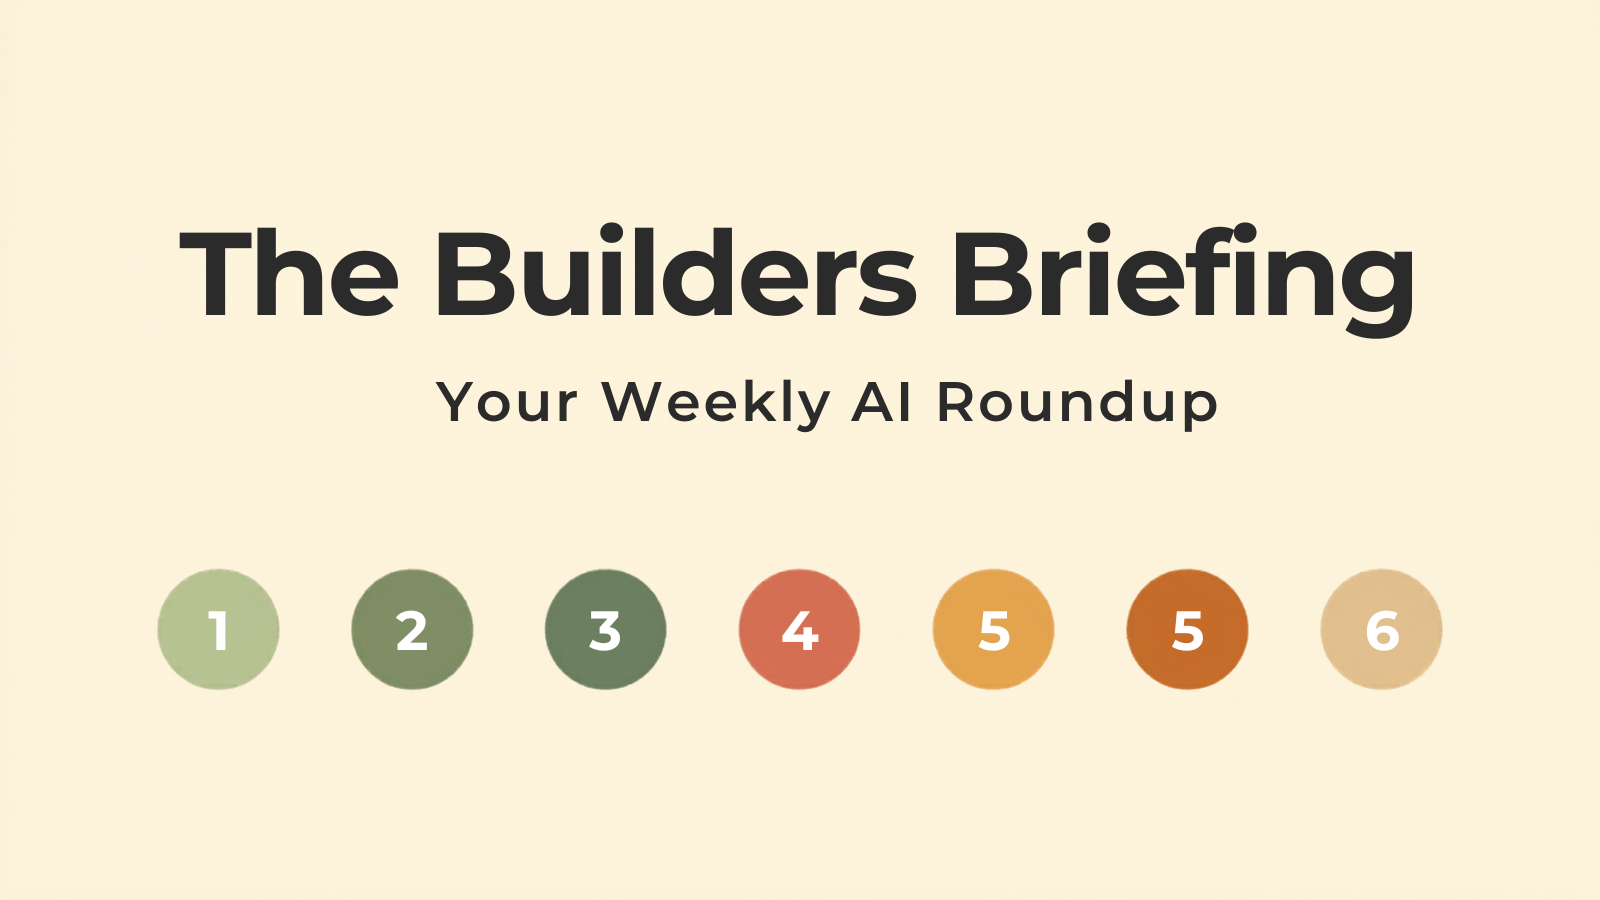
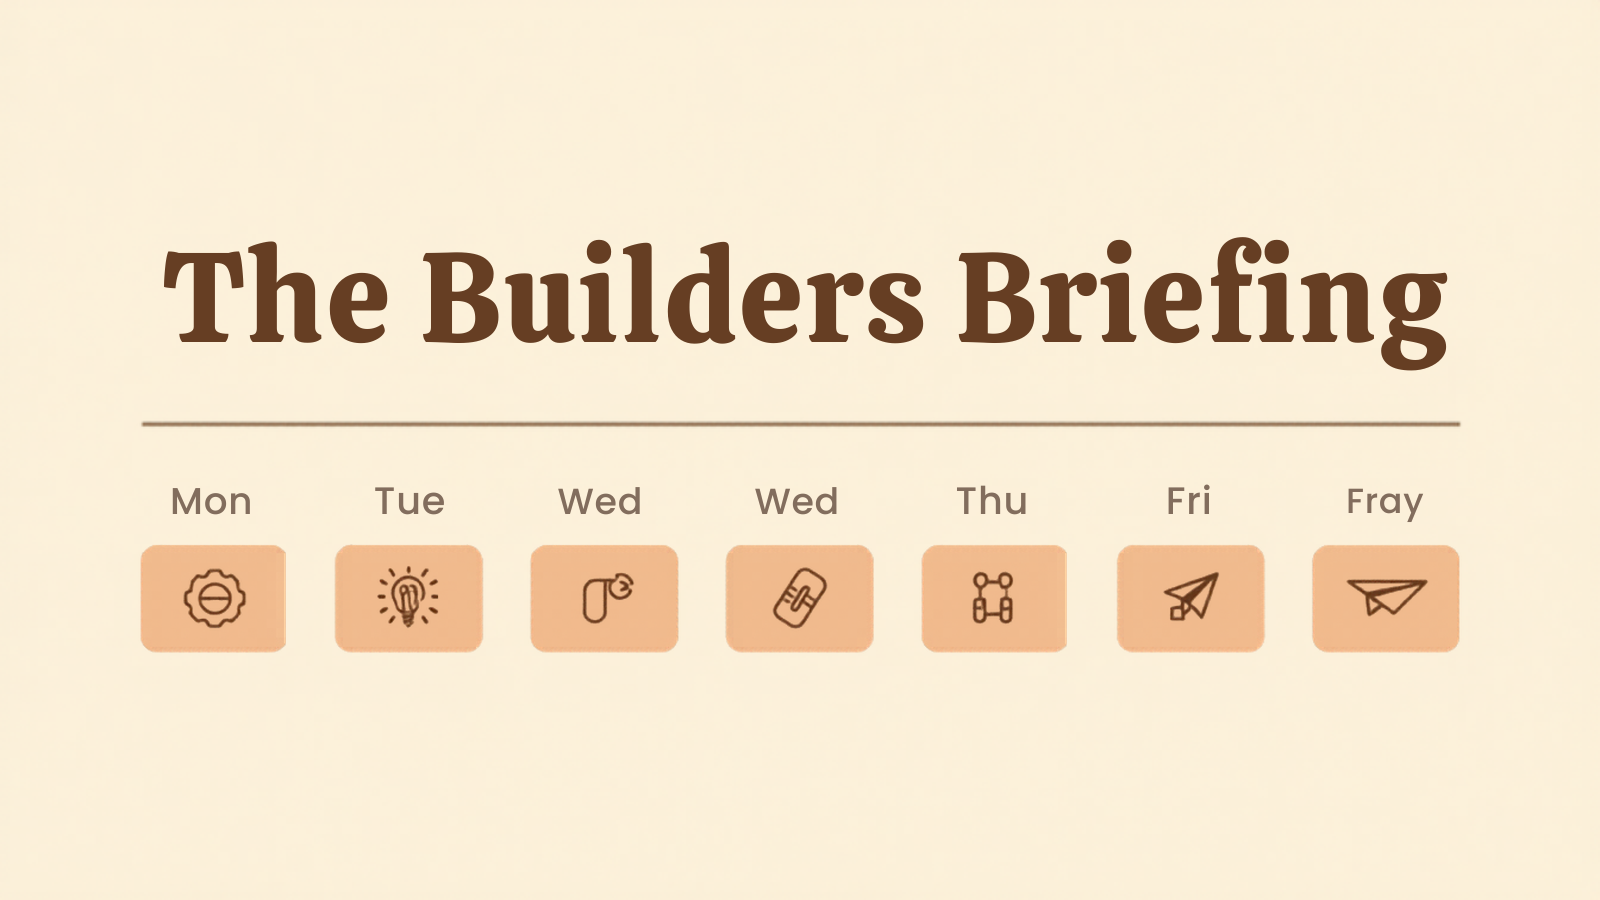
Address ALL comment feedback:
- Friday: Shortened from 2400 to 1300 chars, stronger hook '95% of his code. From his phone.'
- Tuesday: New Canva image with weekly calendar layout (no 1-2-3-4-5 numbering)
- Wednesday: New Canva image with Anthropic branding
- Thursday: New Canva image for builder-reviewer pattern
- Auto-notification cron set up (every 10 min)

Changed region(s): [[0.0625, 0.5289, 0.9375, 0.7778], [0.0938, 0.2489, 0.9062, 0.4978], [0.7188, 0.5289, 0.75, 0.56]]

diff --git a/content/week-apr-7/fri-linkedin.md b/content/week-apr-7/fri-linkedin.md
@@ -1,46 +1,32 @@
 # Friday LinkedIn — Apr 11
 
-## Title: Simon Willison writes 95% of his code from his phone. That sentence should scare mid-career engineers.
+## Title: 95% of his code. From his phone.
 
-Simon Willison — creator of Django, one of the most respected developers alive — recently shared that he writes 95% of his code from his phone.
+Simon Willison — creator of Django — recently shared that he writes 95% of his code from his phone.
 
-Not pseudocode. Not notes. Actual shipping code. From his phone.
+Not notes. Not pseudocode. Shipping code.
 
 He describes what he wants. The AI agent builds it. He reviews and ships.
 
-But here's the part that made me uncomfortable:
+But here's what made me uncomfortable:
 
 He thinks mid-career engineers are MORE at risk from AI than juniors.
 
-His reasoning:
-
-→ Juniors are learning with AI from day one. It's native to them. They don't know any other way.
-
-→ Mid-career engineers (5-15 years experience) have deeply ingrained habits. They open a file, they type code, they debug by reading stack traces. These habits were advantages for 20 years. Now they're friction.
-
-→ Senior architects who think in systems are fine. Their value was never in the typing.
+→ Juniors are learning with AI from day one. It's native to them.
+→ Mid-career engineers have deeply ingrained habits. Open file, type code, debug manually. These were advantages. Now they're friction.
+→ Senior architects who think in systems are fine.
 
 The dangerous middle: experienced enough to be set in your ways, not senior enough that your value is purely strategic.
 
-I felt this in myself. My first instinct when I want to build something is still to open VS Code and start a file. But the fastest path now is to describe what I want to an AI agent and let it scaffold the whole thing. Then I review, adjust, and ship.
+I felt this in myself. My first instinct is still to open VS Code. But the fastest path now is to describe what I want and let the agent build it.
 
-The skill shift is real:
-
-Old world: "Can you write clean, efficient code?"
-New world: "Can you clearly describe what needs to be built, evaluate AI output, and catch what it misses?"
-
-The second skill set is harder to learn if you've spent a decade building the first one.
+The skill shift:
+Old: "Can you write clean code?"
+New: "Can you direct AI and catch what it misses?"
 
 Three things I'm doing about it:
+1. Starting every project by describing it in plain language first
+2. Using a builder-reviewer pattern (two agents checking each other)
+3. Investing in architecture thinking — the last thing AI replaces
 
-1. Forcing myself to start every project by describing it in natural language before touching any code. Break the "open editor first" habit.
-
-2. Using the builder-reviewer pattern (two agents, one builds, one critiques). This teaches me to evaluate code faster than write it.
-
-3. Investing time in system design and architecture thinking. That's the last thing AI will replace.
-
-Simon also mentioned something called the "dark factory" pattern — where nobody writes OR reviews code. AI builds it. AI tests it. AI ships it. He thinks it's coming.
-
-I don't know if I believe that yet. But I didn't believe I'd run a 6-agent team from my terminal either.
-
-Are you adapting your workflow, or still coding the way you did two years ago? Honest answers only.
+Are you adapting, or still coding like two years ago?
